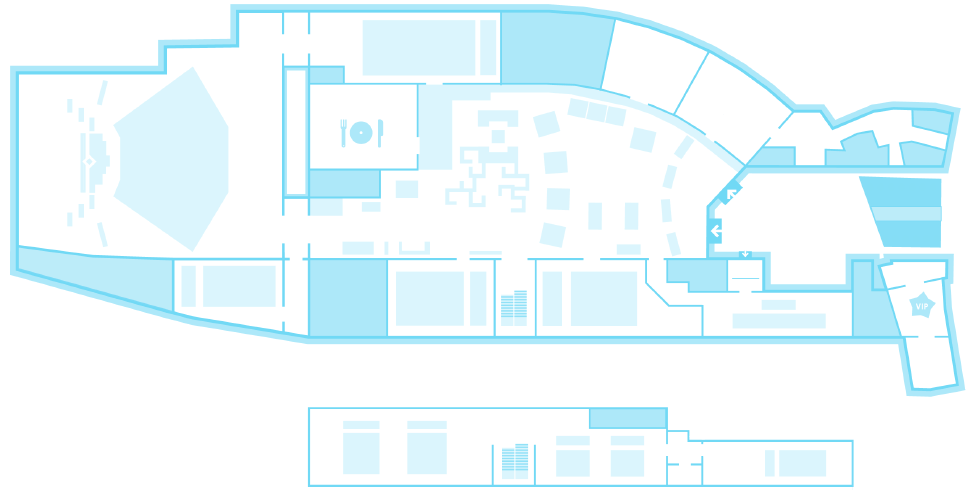
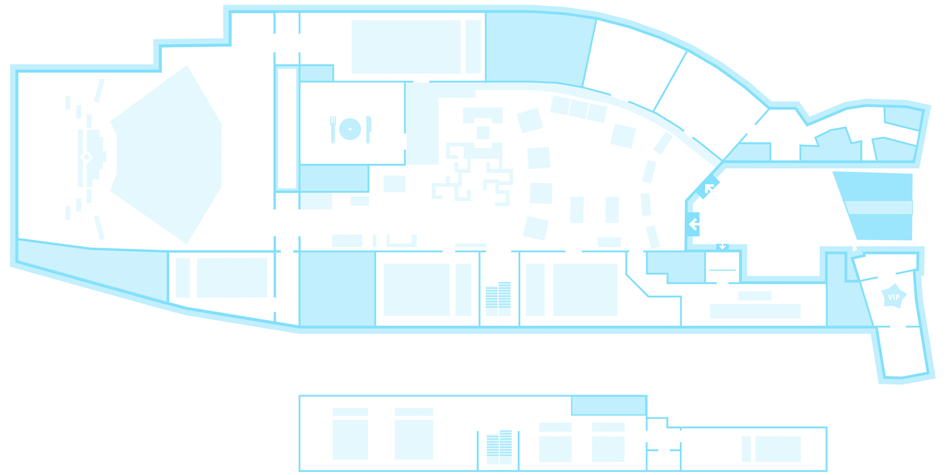
reducing map width to 950px

diff --git a/clients/anim/index.html b/clients/anim/index.html
@@ -12,8 +12,7 @@
 			}
 			#content {
 				position: relative;
-				width: 980px;
-				margin: auto;
+				width: 950px;
 			}
 			#container {
 				position: absolute;
@@ -38,7 +37,7 @@
 			}
 			#statistics {
 				position: absolute;
-				top: 480px;
+				top: 465px;
 				left: 5px;
 				font-size: 12px;
 				color: #000;
@@ -46,7 +45,7 @@
 			}
 			#timer {
 				position: absolute;
-				top: 460px;
+				top: 445px;
 				left: 5px;
 				font-size: 16px;
 				font-weight: bold;
@@ -54,9 +53,9 @@
 			}
 			#slider {
 				position: absolute;
-				width: 980px;
+				width: 950px;
 				height: 50px;
-				top: 530px;
+				top: 515px;
 				left: 0px;
 			}
 			#play {
@@ -97,7 +96,7 @@
 				color: #000;
 			}
 			#sliderWrapper {
-				width: 883px;
+				width: 853px;
 				height: 50px;
 				border-radius: 10px;
 				overflow: hidden;
@@ -111,7 +110,6 @@
 				width: 6140px;
 				height: 50px;
 				position: relative;
-				left: -420px;
 				top: 0px;
 				cursor: pointer;
 				background-image: url(slider.png);
@@ -159,8 +157,8 @@
 	<body>
 		<div id="content">
 			<div id="container">
-				<img id="map" src="map.png" width="980" height="490">
-				<canvas id="canvas" width="980" height="490"></canvas>
+				<img id="map" src="map.png" width="950" height="490">
+				<canvas id="canvas" width="950" height="490"></canvas>
 				<div class="label" style="left:110px;top:225px;width:160px" id="stage1"></div>
 				<div class="label" style="left:506px;top: 20px;width:90px;height:50px" id="stage2"></div>
 				<div class="label" style="left:160px;top:342px" id="stage3"></div>

diff --git a/clients/anim/main.js b/clients/anim/main.js
@@ -1,13 +1,13 @@
 var startTime = (24*1 +  9)*60;
 var minTime =   (24*0 + 15)*60;
-var maxTime =   (24*3 + 22)*60;
+var maxTime =   (24*3 + 24)*60;
 
 
 var currentTime = startTime;
 var clients = [];
 var context;
-var width = 980;
-var height = 490;
+var width = 950;
+var height = 475;
 var gridSize = 3;
 var nearFieldRadius = 30;
 
